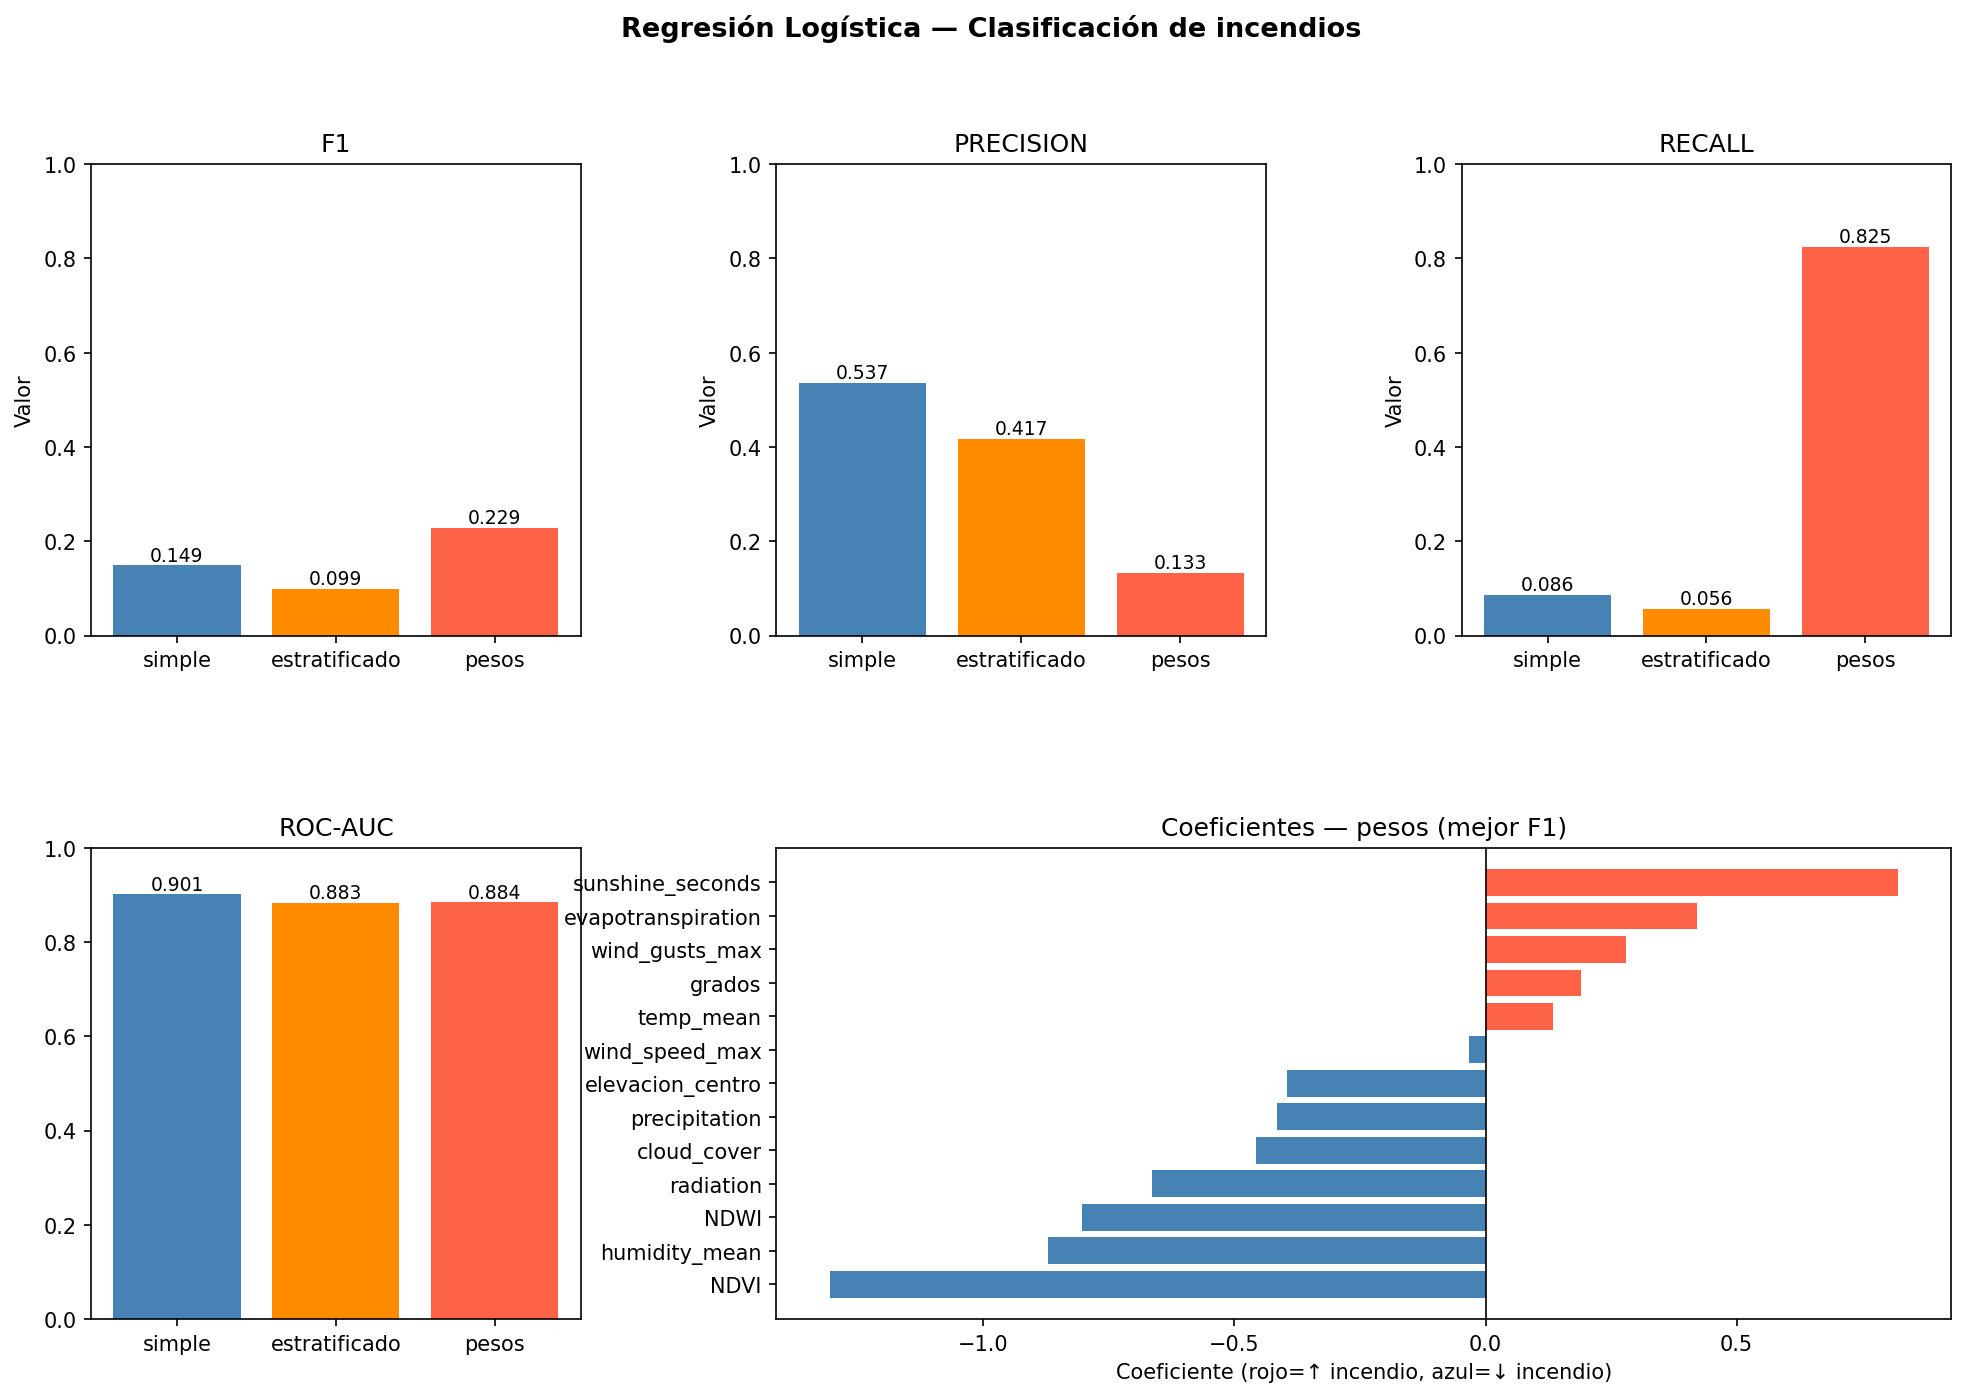
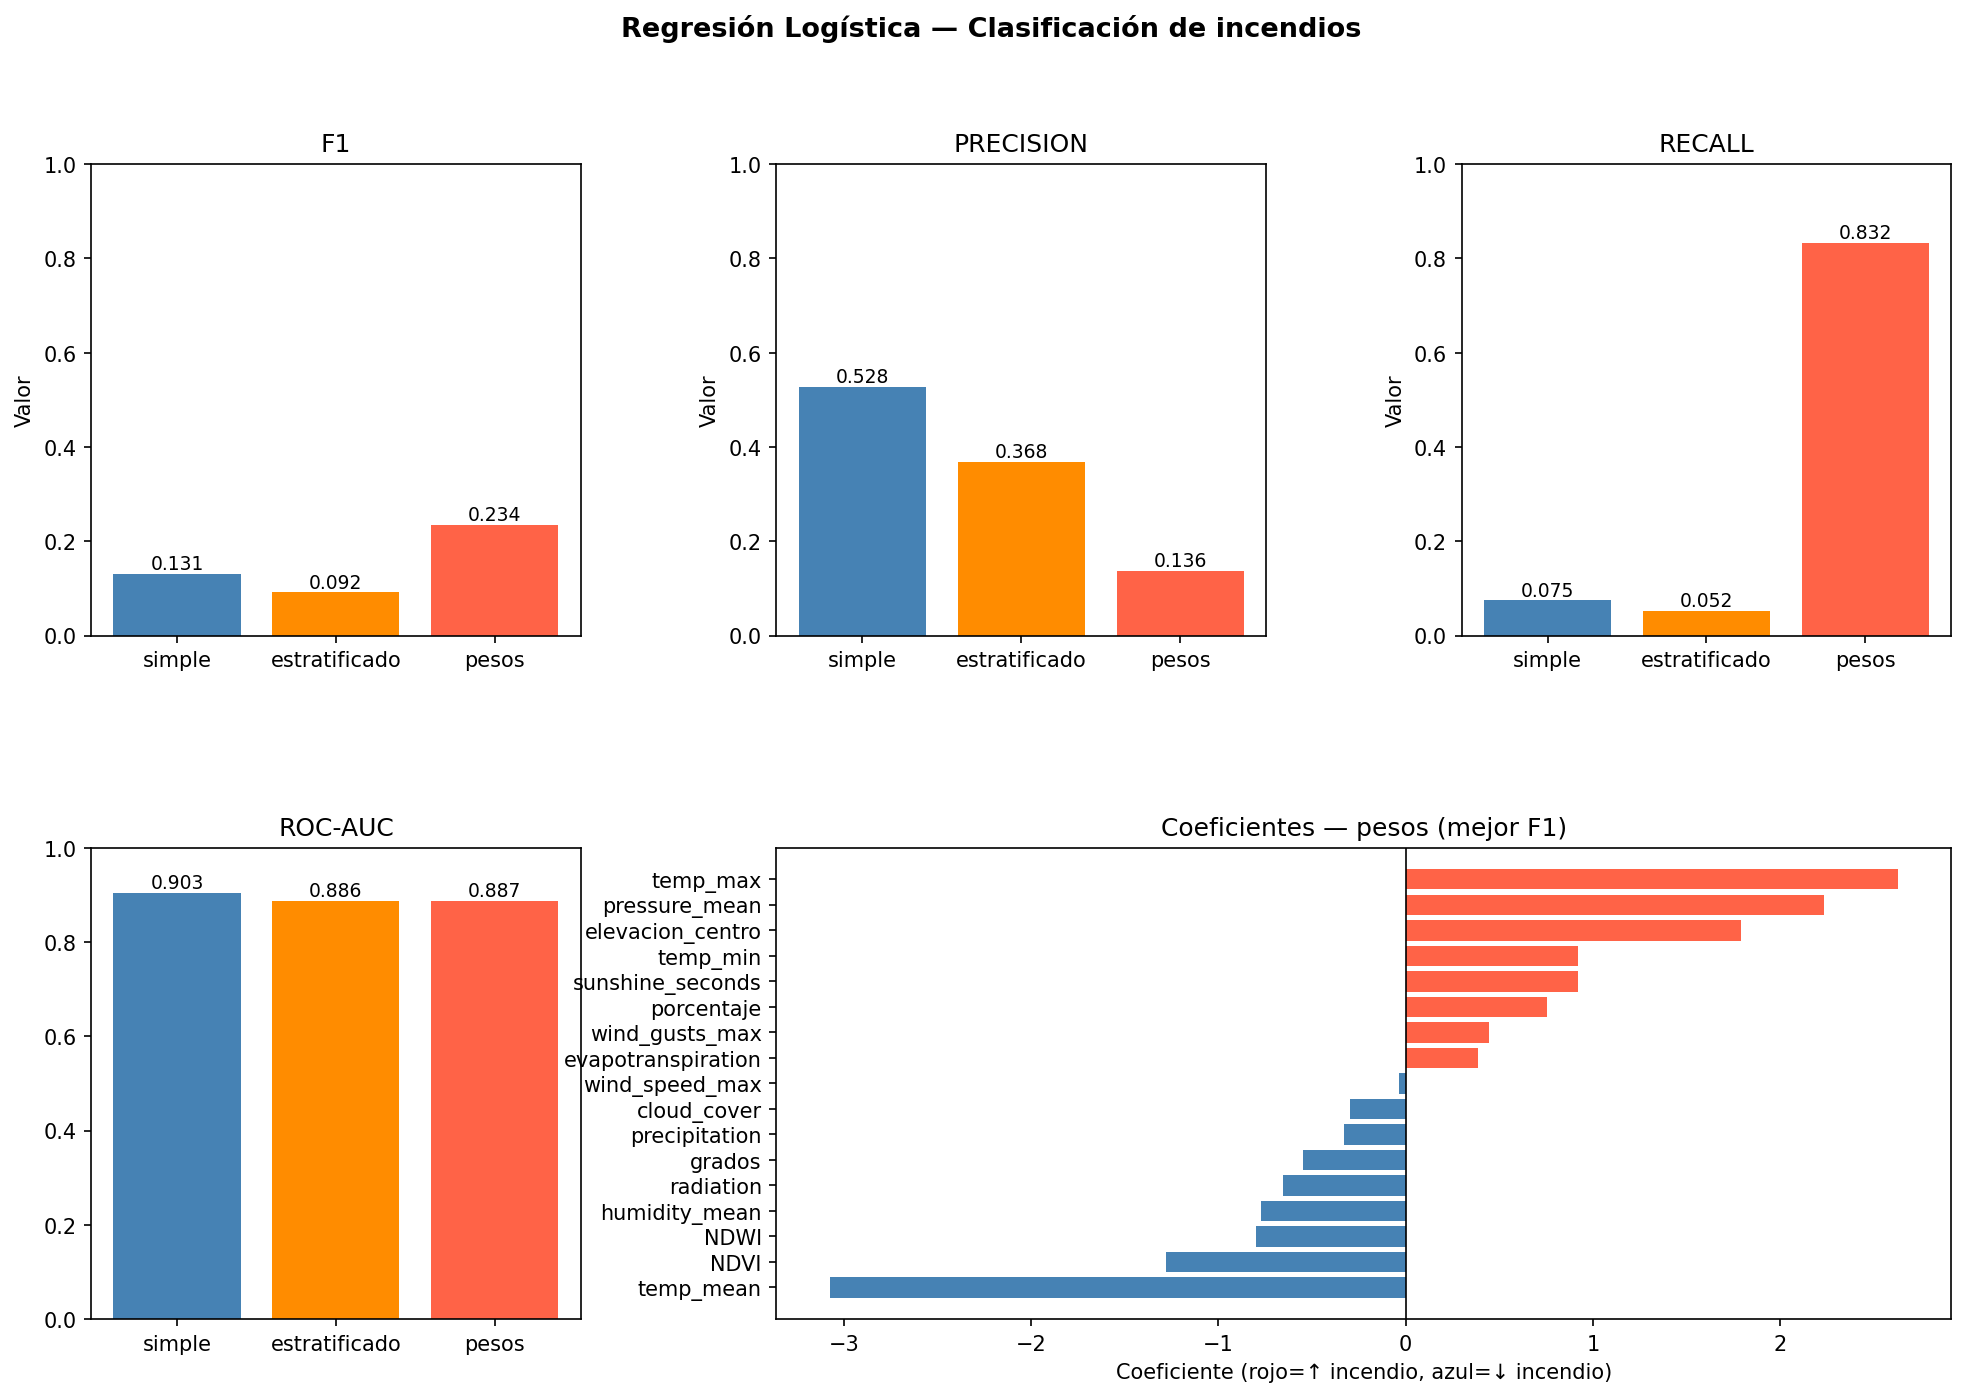
feat: regresión logística con ambas versiones de variables

diff --git a/src/modelos/utils/carga_datos.py b/src/modelos/utils/carga_datos.py
@@ -62,7 +62,7 @@ def _cargar_parquets(prefix: str, years: list) -> pd.DataFrame:
 
 # ── API pública ────────────────────────────────────────────────────────────────
 
-def cargar_dataset_general(years: list = YEARS) -> tuple:
+def cargar_dataset_general(years=YEARS, eliminar_correladas=True):
     """
     Carga el dataset de clasificación (incendios + no incendios).
 
@@ -78,7 +78,8 @@ def cargar_dataset_general(years: list = YEARS) -> tuple:
     df = _cargar_parquets(PREFIX_GENERAL, years)
 
     # Eliminar columnas con multicolinealidad
-    df = df.drop(columns=COLS_ELIMINAR, errors="ignore")
+    if eliminar_correladas:
+        df = df.drop(columns=COLS_ELIMINAR, errors="ignore")
 
     # Separar features y target
     cols_no_features = [TARGET_CLASIFICACION, "lat", "lon", "date", "_year"]

diff --git a/src/modelos/clasificacion/regresion_logistica.py b/src/modelos/clasificacion/regresion_logistica.py
@@ -185,7 +185,7 @@ def main():
     args = parser.parse_args()
 
     # ── 1. Cargar datos ────────────────────────────────────────────────────────
-    X, y = cargar_dataset_general()
+    X, y = cargar_dataset_general(eliminar_correladas=False)
     feature_names = X.columns.tolist()
 
     resultados  = {}
